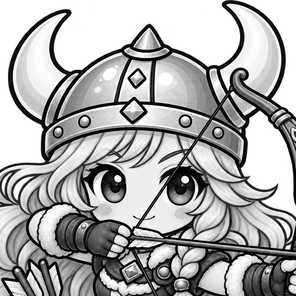
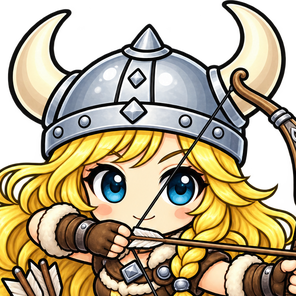
feat(display): full-colour shieldmaiden frames for colour displays
gen_female_frames.py now keeps the portrait crops in colour (woman/src/,
RGBA) and writes a 156x156 RGBA twin of every frame to woman/color/,
including the idle expression variants. The 1-bit frames are rebuilt from
the same crops. Not yet wired into any screen.

diff --git a/scripts/gen_female_frames.py b/scripts/gen_female_frames.py
@@ -16,12 +16,15 @@ Two stages, so the frames can be re-tuned without the 17 MB of original art:
 
   gen_female_frames.py --from-originals DIR
       DIR holds the original illustrations (axe.png, bluuetooth.png, ...).
-      Writes the portrait crops to woman/src/<name>.png (greyscale, 296 px).
+      Writes the portrait crops to woman/src/<name>.png (colour on a
+      transparent background, 296 px).
 
   gen_female_frames.py
       Renders woman/<name>.png (78x78, 1-bit) from woman/src/, plus the
       idle-only expression variants woman/idle_<name>_<kind>.png (closed
-      smiling eyes, a blink, a wink) drawn onto the calm portraits.
+      smiling eyes, a blink, a wink) drawn onto the calm portraits. Every
+      frame also gets a full-colour twin in woman/color/ (156x156, RGBA) for
+      colour displays.
 
 Tuning knobs are the constants below. Needs Pillow.
 """
@@ -34,6 +37,7 @@ from PIL import Image, ImageDraw, ImageEnhance, ImageFilter, ImageOps
 REPO = os.path.dirname(os.path.dirname(os.path.abspath(__file__)))
 WOMAN_DIR = os.path.join(REPO, 'resources', 'images', 'status', 'woman')
 SRC_DIR = os.path.join(WOMAN_DIR, 'src')
+COLOR_DIR = os.path.join(WOMAN_DIR, 'color')
 
 FRAME = 78           # sprite size, same as the default frames
 ART = 74             # portrait size inside the frame (2 px side margin, 4 px top)
@@ -95,6 +99,9 @@ def _eye_box(eye):
     return (x0 - 7, y0 - 9, x1 + 7, y0 + 50)
 
 
+EYE_INK = (52, 32, 30, 255)      # closed-eye stroke on the colour portrait
+
+
 def _close_eye(im, eye, skin, kind):
     """Paint one open eye out with the skin tone and draw it closed."""
     x0, y0, x1, y1 = _eye_box(eye)
@@ -104,11 +111,11 @@ def _close_eye(im, eye, skin, kind):
     draw = ImageDraw.Draw(im)
     cx, cy, rx = (x0 + x1) // 2, (y0 + y1) // 2 + 6, (x1 - x0) // 2 - 6
     if kind == 'blink':     # lower-lid curve with lashes
-        draw.arc((cx - rx, cy - 22, cx + rx, cy + 12), 25, 155, fill=0, width=EYE_LINE)
+        draw.arc((cx - rx, cy - 22, cx + rx, cy + 12), 25, 155, fill=EYE_INK, width=EYE_LINE)
         for dx in (-rx + 4, 0, rx - 4):
-            draw.line((cx + dx, cy + 8, cx + dx * 1.25, cy + 19), fill=0, width=5)
+            draw.line((cx + dx, cy + 8, cx + dx * 1.25, cy + 19), fill=EYE_INK, width=5)
     else:                   # smiling upward arc
-        draw.arc((cx - rx, cy - 14, cx + rx, cy + 26), 200, 340, fill=0, width=EYE_LINE)
+        draw.arc((cx - rx, cy - 14, cx + rx, cy + 26), 200, 340, fill=EYE_INK, width=EYE_LINE)
 
 
 def _eyes_for(name, kind):
@@ -119,9 +126,10 @@ def _eyes_for(name, kind):
 
 def idle_variant(src, name, kind):
     """A portrait crop with the expression `kind` drawn on (see IDLE_VARIANTS)."""
-    im = src.convert('L').copy()
+    im = src.convert('RGBA').copy()
     left, right = EYES[name]
     skin = im.getpixel(((left[2] + right[0]) // 2, left[1] + 30))   # between the eyes
+    skin = skin[:3] + (255,)
     for eye in _eyes_for(name, kind):
         _close_eye(im, eye, skin, 'blink' if kind == 'blink' else 'smile')
     return im
@@ -148,12 +156,12 @@ def render_idle_frame(src, name, kind):
 
 
 def _character(path):
-    """The illustration flattened on white and cropped to the character."""
+    """The illustration (RGBA) cropped to the character."""
     im = Image.open(path).convert('RGBA')
     flat = Image.new('RGB', im.size, 'white')
     flat.paste(im, mask=im.split()[-1])
     ink = ImageOps.invert(flat.convert('L')).point(lambda p: 255 if p > 12 else 0)
-    return flat.crop(ink.getbbox())
+    return im.crop(ink.getbbox())
 
 
 def build_sources(originals_dir):
@@ -167,20 +175,30 @@ def build_sources(originals_dir):
         k = char.width / 500.0
         draw = ImageDraw.Draw(char)
         for poly in PAINT_OUT.get(name, ()):
-            draw.polygon([(x * k, y * k) for x, y in poly], fill='white')
+            draw.polygon([(x * k, y * k) for x, y in poly], fill=(255, 255, 255, 0))
         px = int(char.width * side)
         x0 = int(char.width * cx - px / 2)
         y0 = int(char.height * top)
-        square = Image.new('RGB', (px, px), 'white')
+        square = Image.new('RGBA', (px, px), (255, 255, 255, 0))
         square.paste(char, (-x0, -y0))
-        square.convert('L').resize((SRC_SIZE, SRC_SIZE), Image.LANCZOS) \
+        square.resize((SRC_SIZE, SRC_SIZE), Image.LANCZOS) \
               .save(os.path.join(SRC_DIR, out + '.png'), optimize=True)
         print(f'  src/{out}.png')
 
 
+def _grey(src):
+    """A portrait crop (colour, transparent background) as greyscale on white."""
+    if src.mode in ('RGBA', 'LA', 'P'):
+        src = src.convert('RGBA')
+        flat = Image.new('RGB', src.size, 'white')
+        flat.paste(src, mask=src.split()[-1])
+        src = flat
+    return src.convert('L')
+
+
 def render_frame(src):
     """A greyscale portrait crop -> the 78x78 1-bit display frame."""
-    grey = src.convert('L')
+    grey = _grey(src)
     lines = grey.point(lambda p: 255 if p < LINE_DARK else 0).resize((ART, ART), Image.BOX)
     small = grey.resize((ART, ART), Image.LANCZOS)
     small = small.filter(ImageFilter.UnsharpMask(radius=1, percent=120, threshold=2))
@@ -193,22 +211,41 @@ def render_frame(src):
     return frame
 
 
+COLOR_SCALE = 2      # colour frames are 2x the 1-bit ones (156 px), same geometry
+
+
+def render_color_frame(src):
+    """A portrait crop -> the full-colour frame for colour displays: RGBA,
+    COLOR_SCALE times the 1-bit frame with the portrait in the same place, so
+    the two can stand in for each other in a layout."""
+    art = ART * COLOR_SCALE
+    frame = Image.new('RGBA', (FRAME * COLOR_SCALE,) * 2, (0, 0, 0, 0))
+    frame.paste(src.convert('RGBA').resize((art, art), Image.LANCZOS),
+                ((FRAME - ART) // 2 * COLOR_SCALE, (FRAME - ART) * COLOR_SCALE))
+    return frame
+
+
 def build_frames():
     names = sorted(n for n in os.listdir(SRC_DIR) if n.endswith('.png'))
     if not names:
         sys.exit(f'no portrait crops in {SRC_DIR} — run with --from-originals first')
-    for stale in os.listdir(WOMAN_DIR):
-        if stale.startswith('idle_') and stale.endswith('.png'):
-            os.remove(os.path.join(WOMAN_DIR, stale))
+    os.makedirs(COLOR_DIR, exist_ok=True)
+    for folder in (WOMAN_DIR, COLOR_DIR):
+        for stale in os.listdir(folder):
+            if stale.startswith('idle_') and stale.endswith('.png'):
+                os.remove(os.path.join(folder, stale))
     for name in names:
         src = Image.open(os.path.join(SRC_DIR, name))
         render_frame(src).save(os.path.join(WOMAN_DIR, name), optimize=True)
+        render_color_frame(src).save(os.path.join(COLOR_DIR, name), optimize=True)
         print(f'  {name}')
         base = name[:-4]
         for kind in IDLE_VARIANTS.get(base, ()):
             out = f'idle_{base}_{kind}.png'
             render_idle_frame(src, base, kind) \
                 .save(os.path.join(WOMAN_DIR, out), optimize=True)
+            render_color_frame(idle_variant(src, base, kind)) \
+                .save(os.path.join(COLOR_DIR, out), optimize=True)
             print(f'  {out}')
 
 
